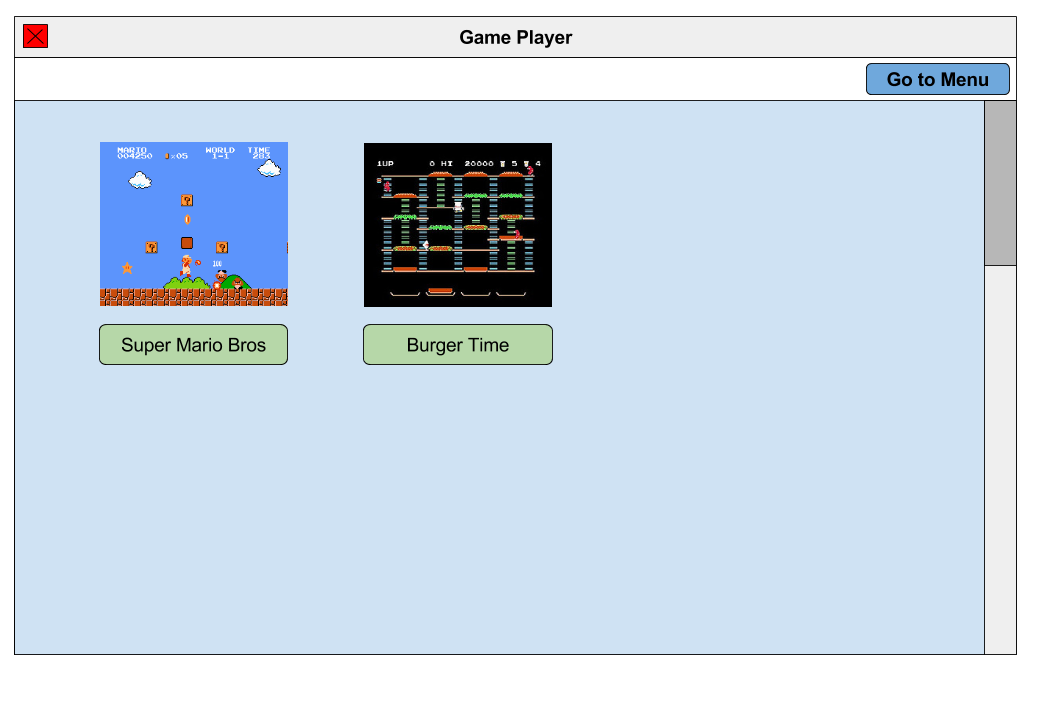
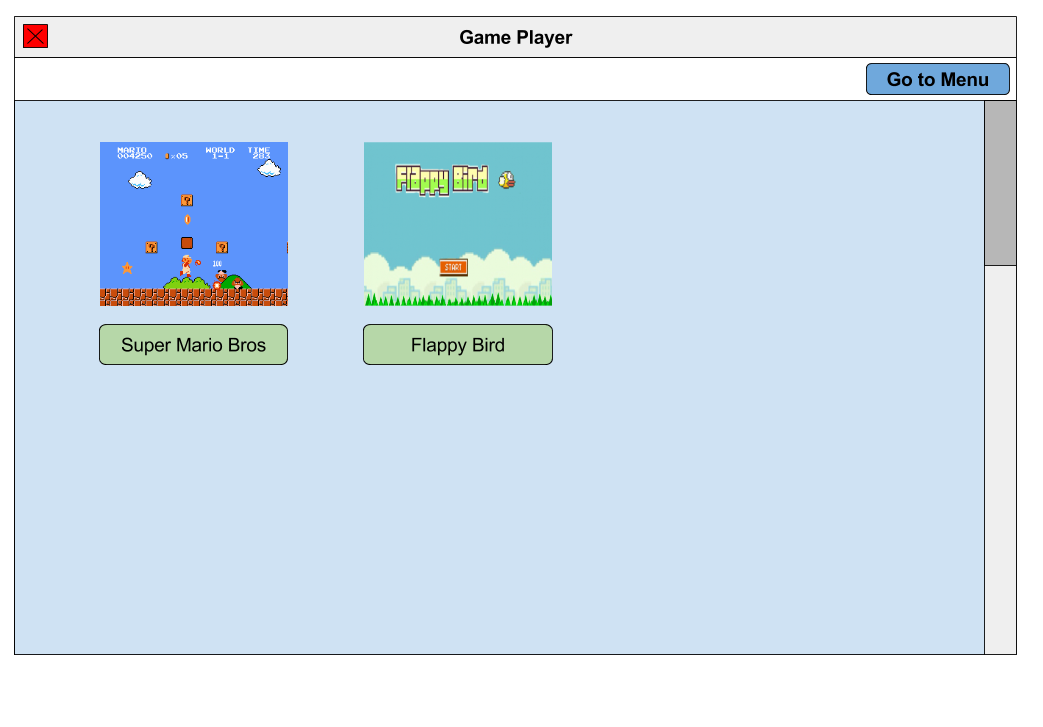
Created design doc and modified a UI image

Changed region(s): [[0.3375, 0.1816, 0.5523, 0.4237], [0.3682, 0.4539, 0.4909, 0.4842]]

diff --git a/Design/DESIGN.md b/Design/DESIGN.md
@@ -1,0 +1,60 @@
+### Introduction
+We are designing a robust gaming environment which allows users to create different genres of games which can be then loaded and played. The primary design goal of the project is to create the most general authoring environment which allows flexible level, unit and object creation. The primary architecture is mainly divided into two parts: the game creation and the game initializer. The game creation mainly consists of an interface which allows users to create a new game. A new game have four main components to it: Room, Object, Event, Action. Room are representations of level/usable area, this can be set to any size. Objects are general building blocks within the area which contains specific events and actions. This “Object” can be utilized in many different ways, depending on the events, images, pathing specified in an object. Examples of an object are the player character, walls, enemies, invisible boundaries,etc. This is designed to be as flexible as possible.  Events are triggers which when fulfilled would execute a list of actions it contains.  Action is probably self-explanatory. All this would stored in a game object which, upon being saved, would be converted to a xml file. Every bit of information is going to be stored in this xml file, including all the game specific information e.g. high scores. This file could then be read and the game object is rebuilt for playing/editing by the game player/authoring environment. The game initializer is also split into two parts: the game engine and the game player. The game player is the frontend which loads a particular xml game file, calls the game engine to run it and displays the results. The game engine is the backend which takes in the game object (containing all the info of a created game) and builds the game program and runs it.
+
+###Overview
+
+###User Interface
+
+####Menu
+
+The very first thing a user will see when they launch our program is a menu that allows them to select the Authoring Environment or the Player.  
+
+Assume the user selects the "Authoring Environment" track.  They will then be brought to a screen that asks whether they would like to "Edit Existing Game" or "Create New Game."  If the user selects "Edit Existing Game," a file chooser will be launched with any games that the user has previously authored and saved.  Selecting one of those files will launch the Main GUI of the authoring environment (populated with the info from the saved game).  If the user selects "Create New Game," they will be taken directly to the Main GUI of the Game Player.  Note that up through this point, each screen changes to the next screen; there are no popups except for the file chooser.
+
+![Menu/Launch Screen](https://github.com/duke-compsci308-fall2015/voogasalad_RED/blob/master/Design/Images/MenuLaunchScreen.png)
+
+####Authoring Environment
+
+#####Main GUI
+
+According to our design of the authoring environment, games consist of Objects (which contain behavior made up of Events and Actions) and Rooms (the environments that Objects exist in).  This design is reflected in the Main GUI.  The Main GUI basically is an environment to launch more specific authoring popups and provides a visual representation of the overall organization of the game.  The user configures all general game traits in this window, such as the game title and the game's thumbnail image (to be displayed in the player).  On the left, the user can see the list of objects they've created.  Clicking on any object will launch the Object Editor popup, so that the user can change the object's configurations.  Similarly, if the user clicks "Add Object," an unpopulated Object Editor popup will launch so the user can save a new Object into the list.  (See Object Editor section below for more details.)  On the right, the user can view the Sprites and Sounds they've added to the game.  Sprites and Sounds are basically image or sound files with user-specified names.  These components can be added to an object.  Clicking on an existing Sprite or Sound launches the Sprite/Sound Editor, where the user can change the name or file of the sprite/sound.  Similarly, clicking "Add Sprite/Sound" will launch a new Sprite/Sound Editor, where the user can add a sprite/sound to the list.  (See Sprite/Sound Editor below for more details.)
+
+The middle section of the Main GUI represents the Rooms in the game.  A Room is the actual environment in which instances of the Objects exist.  The flow of the game is controlled entirely through the rooms (e.g. changing levels would just be an action to go to the room that corresponds to the next level).  Just like the Object and Sprite/Sound displays, this display contains already created rooms and an option to add a new room.  Double clicking any of these launches the Room Editor popup.  (Please see the "Room Editor" section below for more details on this UI component.)
+
+The Main GUI will have a "save" button, which will allow the user to actually save their game and have it be available to play in the Game Player.  Once a user clicks "save," the entire saving process will be handled in the backend.  The user must specify a game title for the game to be saved.  If no title has been specified, we will handle that as an error and launch a popup reminding the user to specify a game title.  We could potentially add a popup that says "Game Saved!" after the save to provide visual assurance that the save took place, but the saving process is almost entirely a backend feature.  The Main GUI will also have an option to go back to the original Menu, so that the user doesn't need to relaunch the entire program to switch to the player or switch to editing a new game.
+
+![Authoring Environment Main GUI](https://github.com/duke-compsci308-fall2015/voogasalad_RED/blob/master/Design/Images/MainGUI.png)
+
+#####Object Editor
+
+Our Object Editor is modeled after the Object editor in Game Maker.  Basically, in the Object Editor, the user can specify the object's name, sprite, size, visibility, and behavior.  The behavior is configured through Events and Actions.  A user can add (or remove) Events.  When a user clicks to add an Event, a popup will be launched with all possible Events (Create, Destroy, Step, Collision, Keypress, and Click).  When an Event is selected, the Event popup screen will change to be a screen to configure the parameters for the Event type.  (For example, for a Keypress event, the user needs to specify which key.)  Having this step in the popup will make it easier for us to control the data being inputed by the user (so we can throw exceptions if necessary).  Once an Event has been completely configured with its parameters, it is added to the object's list of events.  Then, the user can specify which Actions should take place on the Event by adding Actions in the Actions listview.  (This listview corresponds to the Event that is selected.)  The Actions popup will be very similar to the Events popup, in that there are specific actions a user can select from, and then we require the user to completely configure the parameters of the Action before it can be added to the Event/Object.
+
+![Object Editor](https://github.com/duke-compsci308-fall2015/voogasalad_RED/blob/master/Design/Images/GameMakerObjectEditor.png)
+
+#####Sprite/Sound Editor
+
+This component is very straightforward.  The user loads in a file and gives it a friendly name.  We can restrict the file types allowed for either Sprite or Sound to avoid bad files being loaded in.
+
+![Sprite/Sound Editor](https://github.com/duke-compsci308-fall2015/voogasalad_RED/blob/master/Design/Images/Sprite-SoundEditor.png)
+
+#####Room Editor
+
+This is probably the most complex portion of the UI.  Every Room must have a size, a background, and a view (the size of the window when the game is being played and what part of the room this window should display).  If the user doesn't configure these, they will have default values to avoid null pointer exceptions.  In the Room Editor, the user will have access to all of the Objects he or she has created through the listview on the left.  The user can then directly drag objects into the room to create an instance of the object in the game.  This drag and drop process will save the Object in the game and update its position to be its x,y position in the room.  
+
+![Room Editor](https://github.com/duke-compsci308-fall2015/voogasalad_RED/blob/master/Design/Images/RoomEditor.png)
+
+####Game Player
+
+Now, assume the user has entered the Game Player from the main menu.  The main screen of the Game Player will display all of the user's games by thumbnail image and game title (both of which were specified in the Main GUI of the authoring environment).  The main Game Player screen will have a button (exactly the same as in the Authoring Environment Main GUI) which allows the user to return to the main Menu, so that the user can switch back to the Authoring Environment without quitting and relaunching the program.
+
+When a user clicks on a specific game (maybe through the thumbnail image), they will be brought to that game's specific game player screen.  This screen will display previous high scores and allow the user to start the game from the beginning or from previously saved games.  Then, the game will run as configured by the user in the authoring environment.
+
+![Game Player Game List](https://github.com/duke-compsci308-fall2015/voogasalad_RED/blob/master/Design/Images/GamePlayerMainGUI.png)
+
+###Design Details
+
+###Example Games
+
+###Design Considerations
+
+###Team Responsibilities
